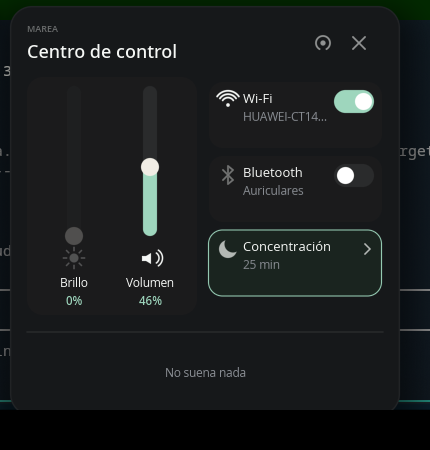
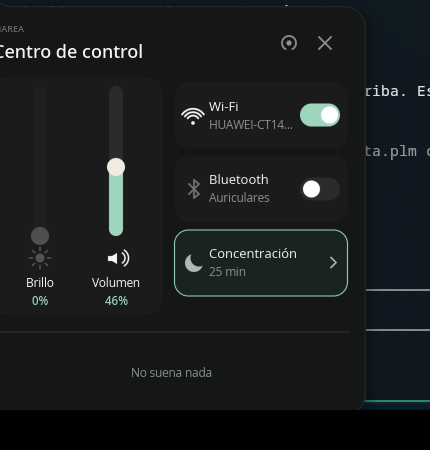
Centrado lo que estaba descentrado en las tarjetas
Dos cosas mías: un reparto alinea a `start` si no se le dice otra cosa, y
un `arc` se dibuja por encima de su punto, así que para centrarlo hay que
bajarlo 7.

Y una de pleamar, ya arreglada: con `size:` dicho, `align:` centraba
respecto al hijo más alto y no dentro de la caja pedida.

diff --git a/ANIMACIONES.md b/ANIMACIONES.md
@@ -497,6 +497,23 @@ row tarjeta { size: 173, 66; gap: 6; padding: 8; fill: …; corner: 14
 }
 ```
 
+### Lo que estaba descentrado
+
+Dentro de cada tarjeta el interruptor se quedaba pegado arriba y el icono de
+Wi-Fi caía alto. Dos causas, las dos dichas mal por mí:
+
+- **Un reparto alinea a `start`.** Sin `align: center`, cada hijo se pega al
+  borde de su eje corto. El texto parecía centrado porque son dos líneas que
+  llenan el alto; el interruptor, que mide 23, no.
+- **Un `arc` se dibuja POR ENCIMA de su punto.** Es una tajada de círculo que
+  abre hacia arriba, así que su masa va de `y−16` a `y+2`: para centrarlo hay
+  que bajar el punto 7. Con el punto en el centro, el icono sale alto.
+
+Y una tercera que sí era de pleamar: con `size:` dicho, `align:` seguía
+centrando **respecto al hijo más alto** y no dentro de la caja pedida, así que
+una tarjeta de 66 con 32 de contenido lo dejaba todo arriba y el hueco abajo.
+Ahora, a lo ancho del eje, lo dicho en `size:` es la caja en la que se alinea.
+
 ### Las páginas, que salen de su tarjeta
 
 ![La página creciendo](evidencia/pagina-crece.png)
